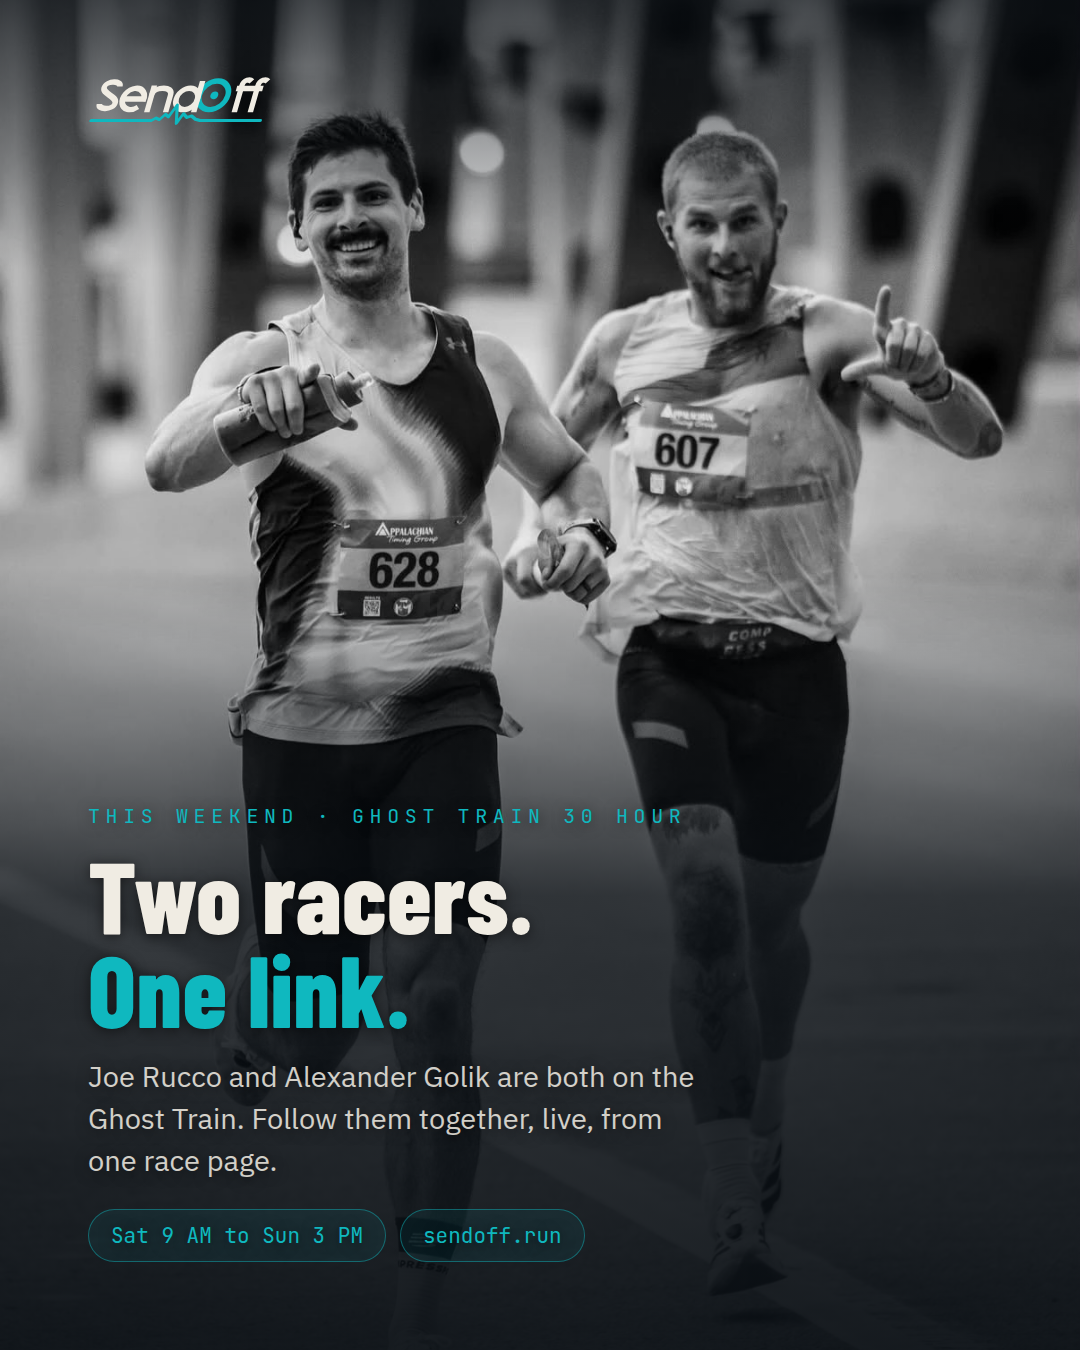
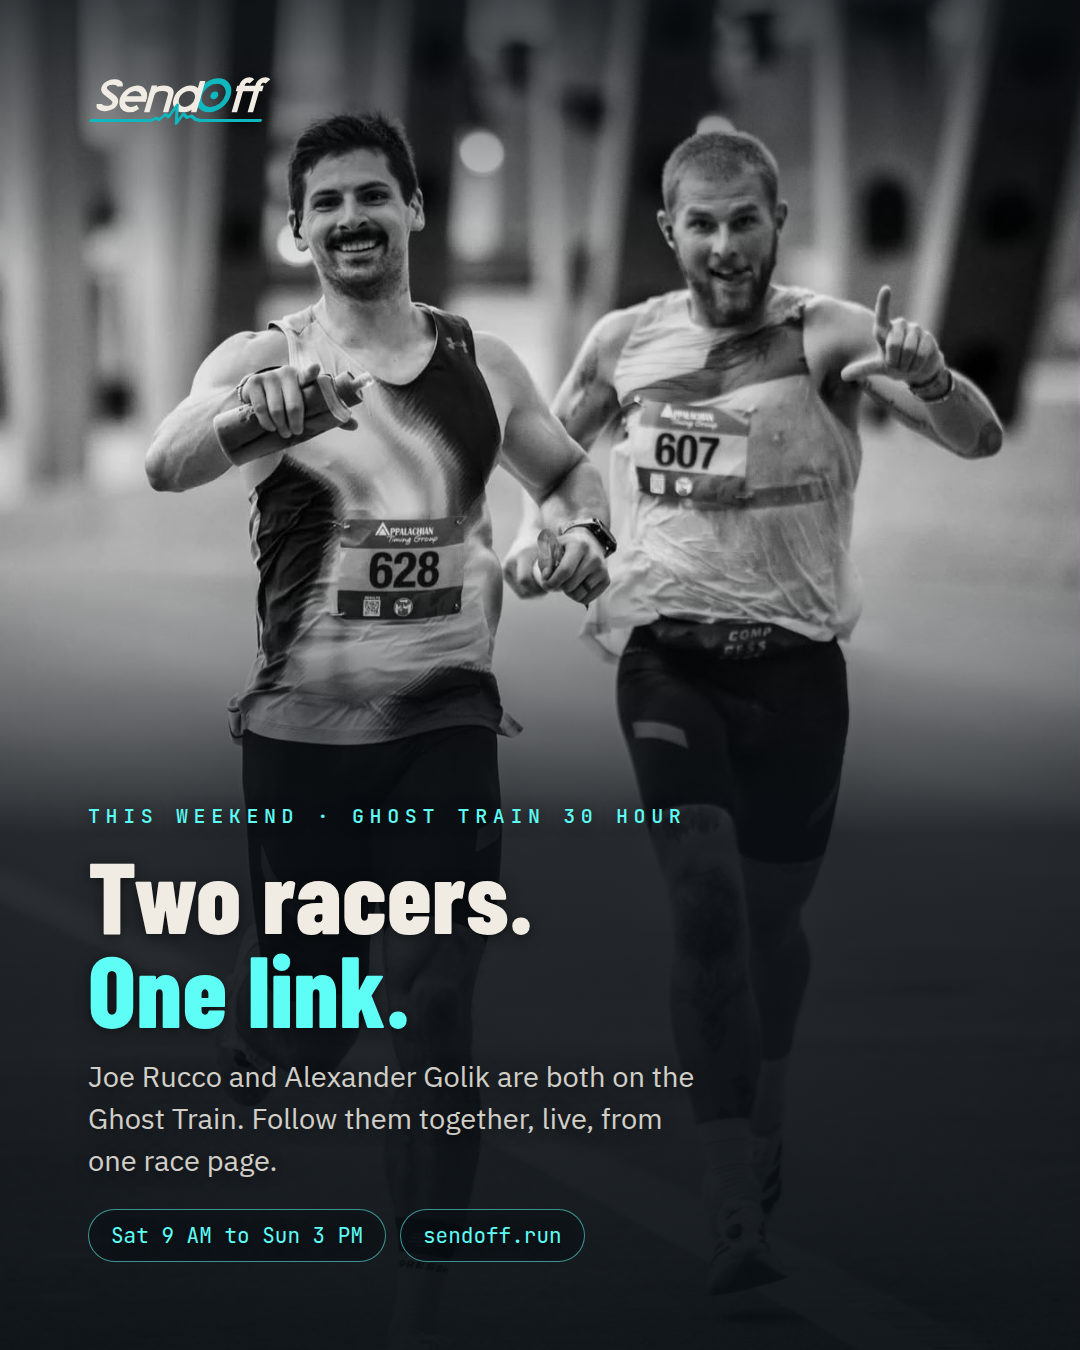
Ghost Train, both: brighter teal over the photo
Over a grey photo the brand teal read as a dark blue. On the photo slide
the kick, "One link." and the chips take the brighter beam colour, the
chips get a dark fill, and the shade behind the words darkens sooner.

Claude-Session: https://claude.ai/code/session_01EWRjYYN5ZDLhgR1pme87tD

diff --git a/brand/social/features.html b/brand/social/features.html
@@ -89,12 +89,16 @@
   .photo .shade-top{position:absolute;left:0;right:0;top:0;height:20%;z-index:1;
     background:linear-gradient(180deg,rgba(10,15,20,.72),rgba(10,15,20,0))}
   .photo .shade{position:absolute;left:0;right:0;bottom:0;height:58%;z-index:1;
-    background:linear-gradient(180deg,rgba(10,15,20,0) 0%,rgba(10,15,20,.78) 42%,rgba(10,15,20,.94) 100%)}
+    background:linear-gradient(180deg,rgba(10,15,20,0) 0%,rgba(10,15,20,.84) 34%,rgba(10,15,20,.95) 100%)}
   .photo .ptop{position:absolute;left:88px;top:72px;z-index:2}
   .photo .pbottom{position:absolute;left:88px;right:88px;bottom:88px;z-index:2;text-shadow:0 2px 14px rgba(0,0,0,.55)}
   .photo .pbottom .kick{margin-top:0}
   .photo .pbottom p.lead{margin-top:20px;max-width:36ch}
   .photo .chips.row{flex-direction:row;flex-wrap:wrap;margin-top:28px}
+  /* The teal reads as a dark blue over grey, so the brighter one here. */
+  .photo .kick, .photo h1 em, .photo .chip{color:var(--beam)}
+  .photo .kick{font-weight:500}
+  .photo .chip{border-color:rgba(94,253,246,.55);background:rgba(10,15,20,.55)}
   /* A racer's own portrait, round, in the top right above the phone, for a
      post about one person's race. */
   .portrait{position:absolute;right:148px;top:92px;width:300px;z-index:2;text-align:center}
